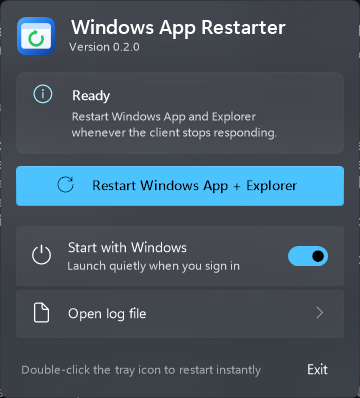
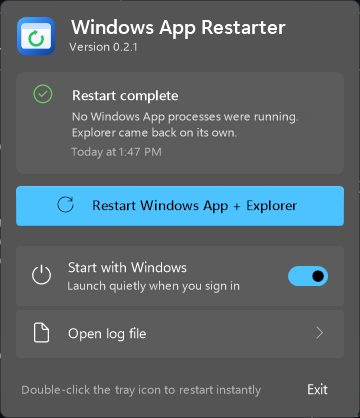
Clear stuck sign-in brokers and never steal focus on launch (0.2.1)
- Restart now also stops CredentialUIBroker and Microsoft.AAD.BrokerPlugin.
  A stale broker holding an orphaned Windows Security passkey prompt makes
  every redirected passkey request fail with RPC_S_CALL_IN_PROGRESS
  (0x800706FF) until it is cleared; Windows respawns both on demand.
- Launching the app (Start menu, script, second instance) now shows the
  flyout without taking keyboard focus. Windows activates a process's first
  top-level window on handle creation, so the flyout is created with
  WS_EX_NOACTIVATE and only lifts it for a tray click or a click into it.
- Enter/Space no longer default to the restart button; they only fire on an
  explicitly focused element and are ignored for 500 ms after the flyout
  appears, so keystrokes in flight cannot trigger a restart.
- Keep the flyout open while a restart is running (Explorer restart steals
  activation) and only re-take focus afterwards if the user was in it.

diff --git a/src/WindowsAppRestarter/UI/FlyoutForm.cs b/src/WindowsAppRestarter/UI/FlyoutForm.cs
@@ -15,6 +15,8 @@ internal sealed class FlyoutForm : Form
     private const int TaskbarGapDip = 12;
     private const int SlideDistanceDip = 14;
     private const double SlideDurationSeconds = 0.18;
+    // Keystrokes already in flight when the flyout appears must never trigger anything.
+    private const double InputGraceSeconds = 0.5;
     private static readonly TimeSpan ToggleGuard = TimeSpan.FromMilliseconds(350);
 
     private readonly string versionText;
@@ -48,7 +50,10 @@ internal sealed class FlyoutForm : Form
     private Point slideFrom;
     private Point lastAnchor;
     private double slideStartSeconds = -1;
+    private double shownAtSeconds;
     private bool suppressDeactivate;
+    private bool showWithoutActivation;
+    private bool reactivateAfterRestart;
 
     public FlyoutForm(Icon appIcon, string versionText)
     {
@@ -115,13 +120,17 @@ internal sealed class FlyoutForm : Form
         get
         {
             var parameters = base.CreateParams;
-            parameters.ExStyle |= NativeMethods.WS_EX_TOOLWINDOW | NativeMethods.WS_EX_TOPMOST;
+            // WS_EX_NOACTIVATE: Windows otherwise activates a process's first top-level window the moment its
+            // handle is created, stealing keyboard focus before the flyout is even visible. It is lifted only
+            // when focus is genuinely wanted (a tray click, or the user clicking into the flyout).
+            parameters.ExStyle |= NativeMethods.WS_EX_TOOLWINDOW | NativeMethods.WS_EX_TOPMOST | NativeMethods.WS_EX_NOACTIVATE;
             return parameters;
         }
     }
 
     public void SetStatus(RestartStatus value)
     {
+        var wasRunning = status.IsRunning;
         status = value;
         restartButton.Enabled = !value.IsRunning;
         if (!restartButton.Enabled && pressedElement == restartButton)
@@ -132,9 +141,26 @@ internal sealed class FlyoutForm : Form
 
         if (Visible)
         {
+            if (!wasRunning && value.IsRunning)
+            {
+                reactivateAfterRestart = ActiveForm == this;
+            }
+
             PerformFlyoutLayout();
             UpdateAnimationTimer();
             Invalidate();
+
+            if (wasRunning && !value.IsRunning)
+            {
+                // Restarting Explorer steals activation. Only take it back if the user was interacting with us.
+                if (reactivateAfterRestart)
+                {
+                    TakeFocus();
+                }
+
+                reactivateAfterRestart = false;
+                outsideClickTimer.Start();
+            }
         }
     }
 
@@ -162,10 +188,14 @@ internal sealed class FlyoutForm : Form
             return;
         }
 
-        ShowFlyout(anchor);
+        ShowFlyout(anchor, takeFocus: true);
     }
 
-    public void ShowFlyout(Point anchor)
+    /// <summary>
+    /// Shows the flyout. With <paramref name="takeFocus"/> false (launches, scripts, activation from another
+    /// instance) it appears on top but never steals keyboard focus from whatever the user is doing.
+    /// </summary>
+    public void ShowFlyout(Point anchor, bool takeFocus)
     {
         lastAnchor = anchor;
         RefreshTheme();
@@ -175,6 +205,7 @@ internal sealed class FlyoutForm : Form
         slideFrom = new Point(restingLocation.X + slideOffset.X, restingLocation.Y + slideOffset.Y);
         Location = Visible ? restingLocation : slideFrom;
         slideStartSeconds = Visible ? -1 : clock.Elapsed.TotalSeconds;
+        shownAtSeconds = clock.Elapsed.TotalSeconds;
 
         focusedIndex = -1;
         showFocusVisuals = false;
@@ -183,17 +214,32 @@ internal sealed class FlyoutForm : Form
             element.Focused = false;
         }
 
+        showWithoutActivation = !takeFocus;
+        NativeMethods.SetNoActivate(Handle, !takeFocus);
         if (!Visible)
         {
             Show();
         }
 
-        Activate();
-        NativeMethods.SetForegroundWindow(Handle);
+        if (takeFocus)
+        {
+            TakeFocus();
+        }
+
         lastFrameSeconds = clock.Elapsed.TotalSeconds;
         UpdateAnimationTimer();
         outsideClickTimer.Start();
         Invalidate();
+    }
+
+    protected override bool ShowWithoutActivation => showWithoutActivation;
+
+    private void TakeFocus()
+    {
+        NativeMethods.SetNoActivate(Handle, false);
+        showWithoutActivation = false;
+        Activate();
+        NativeMethods.SetForegroundWindow(Handle);
     }
 
     public void HideFlyout()
@@ -249,7 +295,8 @@ internal sealed class FlyoutForm : Form
     protected override void OnDeactivate(EventArgs e)
     {
         base.OnDeactivate(e);
-        if (!suppressDeactivate && Visible)
+        // Restarting Explorer yanks the foreground away; keep showing progress instead of vanishing mid-restart.
+        if (!suppressDeactivate && Visible && !status.IsRunning)
         {
             HideFlyout();
         }
@@ -725,6 +772,12 @@ internal sealed class FlyoutForm : Form
             return;
         }
 
+        // A deliberate click into a passively shown flyout is consent to take focus.
+        if (NativeMethods.HasNoActivate(Handle))
+        {
+            TakeFocus();
+        }
+
         showFocusVisuals = false;
         pressedElement = ElementAt(e.Location);
         if (pressedElement is not null)
@@ -774,8 +827,13 @@ internal sealed class FlyoutForm : Form
                 return true;
             case Keys.Enter:
             case Keys.Space:
-                var target = focusedIndex >= 0 ? elements[focusedIndex] : restartButton;
-                target.Activate();
+                // No implicit default action: only an element the user explicitly focused can be triggered,
+                // and never within the grace period right after the flyout appeared.
+                if (focusedIndex >= 0 && clock.Elapsed.TotalSeconds - shownAtSeconds >= InputGraceSeconds)
+                {
+                    elements[focusedIndex].Activate();
+                }
+
                 return true;
             default:
                 return base.ProcessDialogKey(keyData);

diff --git a/src/WindowsAppRestarter/RestartResult.cs b/src/WindowsAppRestarter/RestartResult.cs
@@ -7,6 +7,7 @@ internal sealed record StoppedProcess(string Name, int Id)
 
 internal sealed record RestartResult(
     IReadOnlyList<StoppedProcess> WindowsAppProcesses,
+    IReadOnlyList<StoppedProcess> SignInBrokerProcesses,
     IReadOnlyList<StoppedProcess> ExplorerProcesses,
     bool ExplorerStarted,
     IReadOnlyList<string> Failures)
@@ -20,17 +21,24 @@ internal sealed record RestartResult(
             var count => $"Stopped {count} Windows App processes."
         };
 
+        var brokerSummary = SignInBrokerProcesses.Count switch
+        {
+            0 => string.Empty,
+            1 => " Cleared 1 sign-in prompt.",
+            var count => $" Cleared {count} sign-in prompts."
+        };
+
         var explorerSummary = ExplorerStarted
             ? "Explorer relaunched."
             : "Explorer came back on its own.";
 
         if (Failures.Count == 0)
         {
-            return $"{windowsAppSummary} {explorerSummary}";
+            return $"{windowsAppSummary}{brokerSummary} {explorerSummary}";
         }
 
         var issues = Failures.Count == 1 ? "1 issue" : $"{Failures.Count} issues";
-        return $"{windowsAppSummary} {explorerSummary} {issues} — open the log file for details.";
+        return $"{windowsAppSummary}{brokerSummary} {explorerSummary} {issues} — open the log file for details.";
     }
 
     public string ToLogMessage()
@@ -38,6 +46,10 @@ internal sealed record RestartResult(
         var windowsAppProcesses = WindowsAppProcesses.Count == 0
             ? "none"
             : string.Join(", ", WindowsAppProcesses);
+
+        var signInBrokerProcesses = SignInBrokerProcesses.Count == 0
+            ? "none"
+            : string.Join(", ", SignInBrokerProcesses);
 
         var explorerProcesses = ExplorerProcesses.Count == 0
             ? "none"
@@ -50,6 +62,7 @@ internal sealed record RestartResult(
         return $"""
             Restart completed.
             Windows App processes stopped: {windowsAppProcesses}
+            Sign-in broker processes stopped: {signInBrokerProcesses}
             Explorer processes stopped: {explorerProcesses}
             Explorer launched manually: {ExplorerStarted}
             Failures: {failures}

diff --git a/src/WindowsAppRestarter/RestartService.cs b/src/WindowsAppRestarter/RestartService.cs
@@ -6,11 +6,18 @@ namespace WindowsAppRestarter;
 internal sealed class RestartService
 {
     private static readonly string[] WindowsAppProcessNames = ["Windows365", "msrdcw", "msrdc"];
+
+    // On-demand sign-in brokers that Windows respawns automatically. A stale instance holding an orphaned
+    // "Windows Security" passkey prompt or "Work or school account" window makes every new passkey request
+    // fail with RPC_S_CALL_IN_PROGRESS until it is cleared.
+    private static readonly string[] SignInBrokerProcessNames = ["CredentialUIBroker", "Microsoft.AAD.BrokerPlugin"];
+
     private static readonly TimeSpan ProcessExitTimeout = TimeSpan.FromSeconds(5);
 
     public async Task<RestartResult> RestartAsync(IProgress<string>? progress = null, CancellationToken cancellationToken = default)
     {
         var stoppedWindowsAppProcesses = new List<StoppedProcess>();
+        var stoppedSignInBrokerProcesses = new List<StoppedProcess>();
         var stoppedExplorerProcesses = new List<StoppedProcess>();
         var failures = new List<string>();
 
@@ -22,6 +29,17 @@ internal sealed class RestartService
                 stoppedWindowsAppProcesses,
                 failures,
                 entireProcessTree: true,
+                cancellationToken);
+        }
+
+        progress?.Report("Clearing stuck sign-in prompts…");
+        foreach (var processName in SignInBrokerProcessNames)
+        {
+            await StopProcessesByNameAsync(
+                processName,
+                stoppedSignInBrokerProcesses,
+                failures,
+                entireProcessTree: false,
                 cancellationToken);
         }
 
@@ -43,7 +61,7 @@ internal sealed class RestartService
             explorerStarted = true;
         }
 
-        return new RestartResult(stoppedWindowsAppProcesses, stoppedExplorerProcesses, explorerStarted, failures);
+        return new RestartResult(stoppedWindowsAppProcesses, stoppedSignInBrokerProcesses, stoppedExplorerProcesses, explorerStarted, failures);
     }
 
     private static async Task StopProcessesByNameAsync(

diff --git a/src/WindowsAppRestarter/Interop/NativeMethods.cs b/src/WindowsAppRestarter/Interop/NativeMethods.cs
@@ -16,11 +16,12 @@ internal static class NativeMethods
 
     public const int WS_EX_TOOLWINDOW = 0x00000080;
     public const int WS_EX_TOPMOST = 0x00000008;
+    public const int WS_EX_NOACTIVATE = 0x08000000;
+    public const int GWL_EXSTYLE = -20;
 
     public const int WM_SETTINGCHANGE = 0x001A;
     public const int WM_DWMCOLORIZATIONCOLORCHANGED = 0x0320;
 
-    public const int ASFW_ANY = -1;
 
     [StructLayout(LayoutKind.Sequential)]
     public struct MARGINS
@@ -42,11 +43,26 @@ internal static class NativeMethods
     public static extern bool SetForegroundWindow(nint hwnd);
 
     [DllImport("user32.dll", ExactSpelling = true)]
-    [return: MarshalAs(UnmanagedType.Bool)]
-    public static extern bool AllowSetForegroundWindow(int processId);
-
-    [DllImport("user32.dll", ExactSpelling = true)]
     public static extern nint GetForegroundWindow();
+
+    [DllImport("user32.dll", EntryPoint = "GetWindowLongPtrW", ExactSpelling = true)]
+    private static extern nint GetWindowLongPtr(nint hwnd, int index);
+
+    [DllImport("user32.dll", EntryPoint = "SetWindowLongPtrW", ExactSpelling = true)]
+    private static extern nint SetWindowLongPtr(nint hwnd, int index, nint value);
+
+    /// <summary>Adds or removes WS_EX_NOACTIVATE so the window can be shown without ever taking focus.</summary>
+    public static void SetNoActivate(nint hwnd, bool noActivate)
+    {
+        var style = GetWindowLongPtr(hwnd, GWL_EXSTYLE);
+        var updated = noActivate ? style | WS_EX_NOACTIVATE : style & ~(nint)WS_EX_NOACTIVATE;
+        if (updated != style)
+        {
+            SetWindowLongPtr(hwnd, GWL_EXSTYLE, updated);
+        }
+    }
+
+    public static bool HasNoActivate(nint hwnd) => (GetWindowLongPtr(hwnd, GWL_EXSTYLE) & WS_EX_NOACTIVATE) != 0;
 
     [DllImport("user32.dll", ExactSpelling = true)]
     public static extern short GetAsyncKeyState(int virtualKey);

diff --git a/src/WindowsAppRestarter/TrayApplicationContext.cs b/src/WindowsAppRestarter/TrayApplicationContext.cs
@@ -46,7 +46,7 @@ internal sealed class TrayApplicationContext : ApplicationContext
         statusMenuItem = new ToolStripMenuItem(status.ToMenuText()) { Enabled = false };
         startupMenuItem = new ToolStripMenuItem("Start with Windows", null, (_, _) => SetStartup(!ReadStartupEnabled()));
 
-        var openMenuItem = new ToolStripMenuItem("Open", null, (_, _) => ShowFlyout());
+        var openMenuItem = new ToolStripMenuItem("Open", null, (_, _) => flyout.ShowFlyout(Cursor.Position, takeFocus: true));
         var openLogsMenuItem = new ToolStripMenuItem("Open log file", null, (_, _) => OpenLogs());
         var exitMenuItem = new ToolStripMenuItem("Exit", null, (_, _) => ExitApplication());
 
@@ -124,13 +124,12 @@ internal sealed class TrayApplicationContext : ApplicationContext
 
         if (!flyout.Visible)
         {
-            flyout.ShowFlyout(Cursor.Position);
+            flyout.ShowFlyout(Cursor.Position, takeFocus: true);
         }
 
         _ = RestartAsync();
     }
 
-    private void ShowFlyout() => flyout.ShowFlyout(Cursor.Position);
 
     private async Task RestartAsync()
     {
@@ -258,7 +257,8 @@ internal sealed class TrayApplicationContext : ApplicationContext
         AppLogger.Info("Launch activated the flyout.");
         RestoreTrayIcon();
         RefreshStartupMenuState();
-        ShowFlyout();
+        // Launches (Start menu, scripts, a second instance) must never steal keyboard focus.
+        flyout.ShowFlyout(Cursor.Position, takeFocus: false);
     }
 
     private static Icon LoadTrayIcon()

diff --git a/src/WindowsAppRestarter/SingleInstanceActivation.cs b/src/WindowsAppRestarter/SingleInstanceActivation.cs
@@ -1,7 +1,6 @@
 using System.IO.Pipes;
 using System.Diagnostics;
 using System.Text.RegularExpressions;
-using WindowsAppRestarter.Interop;
 
 namespace WindowsAppRestarter;
 
@@ -16,9 +15,6 @@ internal static partial class SingleInstanceActivation
     {
         try
         {
-            // Let the running instance bring its flyout to the foreground even though we are the active process.
-            NativeMethods.AllowSetForegroundWindow(NativeMethods.ASFW_ANY);
-
             using var client = new NamedPipeClientStream(".", PipeName, PipeDirection.Out);
             client.Connect(ClientConnectTimeout);
             client.WriteByte(1);

diff --git a/src/WindowsAppRestarter/RestartStatus.cs b/src/WindowsAppRestarter/RestartStatus.cs
@@ -14,7 +14,7 @@ internal sealed record RestartStatus(RestartState State, string Title, string De
     public static RestartStatus Idle { get; } = new(
         RestartState.Idle,
         "Ready",
-        "Restart Windows App and Explorer whenever the client stops responding.",
+        "Restarts Windows App, clears stuck passkey and sign-in prompts, and restarts Explorer.",
         null);
 
     public static RestartStatus Running(string step) => new(RestartState.Running, "Restarting…", step, null);

diff --git a/README.md b/README.md
@@ -4,12 +4,13 @@
   <img src="assets/logo.svg" width="128" alt="Windows App Restarter logo">
 </p>
 
-A tiny Windows tray utility that restarts the Windows App / Windows 365 client processes and restarts Explorer.
+A tiny Windows tray utility that restarts the Windows App / Windows 365 client processes, clears stuck passkey and sign-in prompts, and restarts Explorer.
 
 It replaces this common manual script:
 
 ```powershell
 Get-Process -Name Windows365, msrdcw, msrdc | Stop-Process -Force
+Get-Process -Name CredentialUIBroker, Microsoft.AAD.BrokerPlugin | Stop-Process -Force
 Get-Process -Name explorer | Stop-Process -Force
 Start-Process explorer.exe
 ```
@@ -23,9 +24,11 @@ Start-Process explorer.exe
 - Adds a tray icon named **Windows App Restarter**.
 - Click the icon to open a Windows 11 style flyout with the restart button, live progress, the last result, and settings.
 - Double-click the icon to restart immediately, or right-click for a compact menu.
-- Launching the app opens the flyout; launching it again activates the existing tray instance instead of starting a duplicate copy.
+- Launching the app opens the flyout **without stealing keyboard focus** (so a script or shortcut can never hijack what you're typing); launching it again activates the existing tray instance instead of starting a duplicate copy. Click into the flyout to give it focus.
+- Enter/Space only trigger a control you've explicitly focused with the keyboard, and keystrokes are ignored for the first half-second after the flyout appears.
 - The auto-start entry uses `--background` so the flyout does not pop open every time you sign in.
 - Stops `Windows365`, `msrdcw`, and `msrdc` if they are running.
+- Clears stuck sign-in prompts by stopping the on-demand `CredentialUIBroker` (Windows Security / passkey dialog) and `Microsoft.AAD.BrokerPlugin` (work or school account) brokers. A stale broker makes every redirected passkey request fail with "a remote procedure call is already in progress" until it is cleared; Windows recreates both automatically.
 - Restarts `explorer.exe` and recreates the tray icon afterward.
 - Shows a Windows notification with the result when the flyout is closed.
 - Can start automatically when you sign in.
